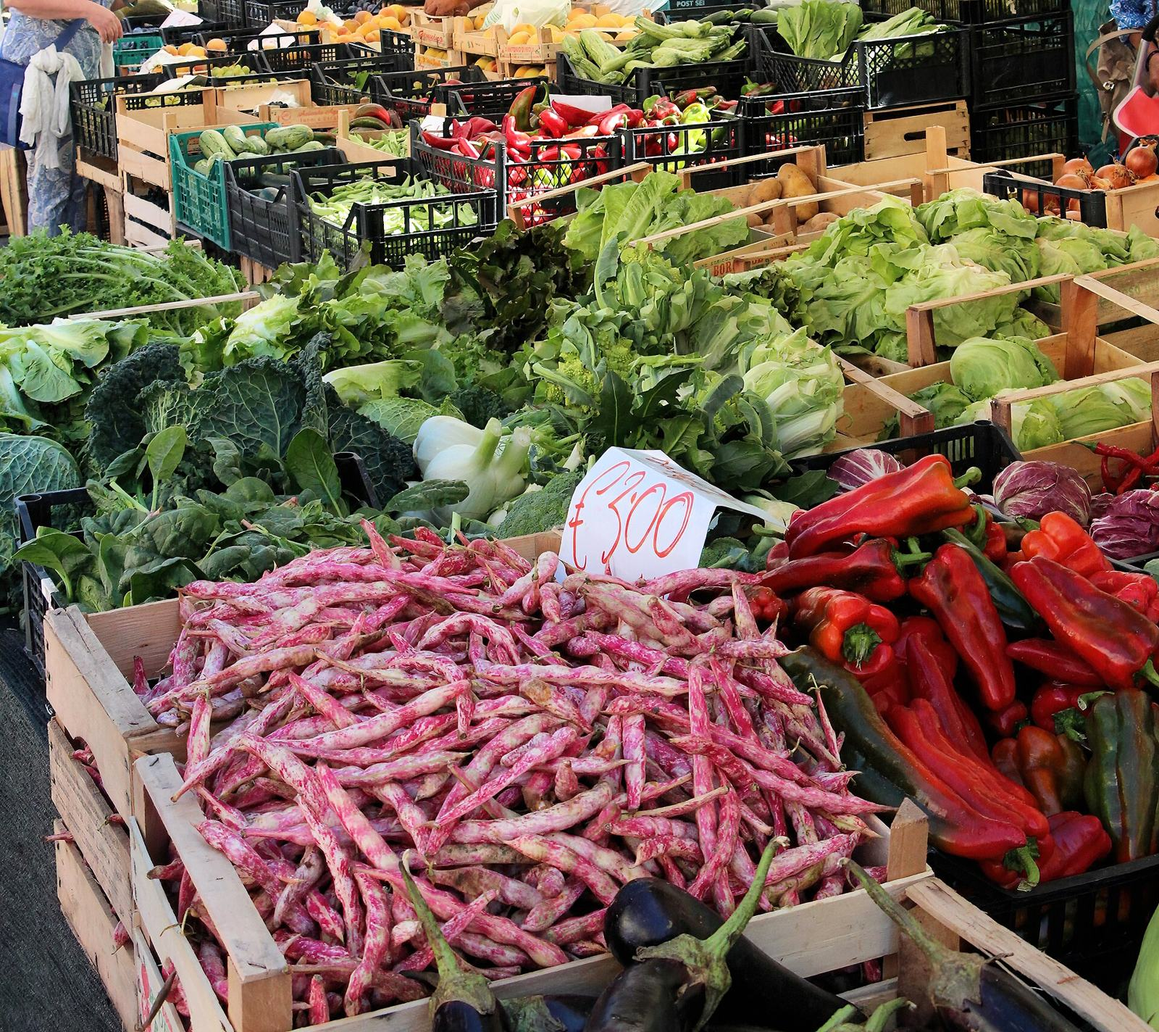
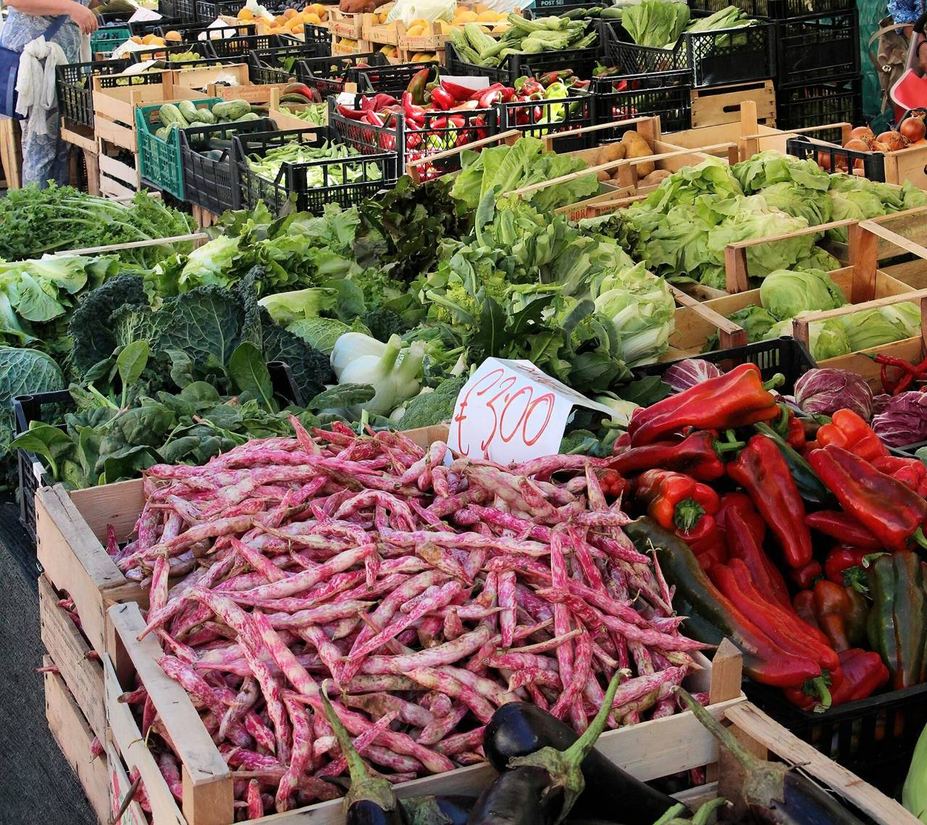
Fichier HTML unique : trois vues et site intégré
tools/build-standalone.mjs assemble prototype et site (photos en data
URI) dans dist/garrym-prototype.html ; npm run check:standalone le
vérifie. Photos provisoires réduites à 1 280 px. Incident 26 (motif
$$ dans une chaîne de remplacement) consigné.

Claude-Session: https://claude.ai/code/session_01MkdFMziEzxAkPfF5LM5gfJ

Changed region(s): [[0.4375, 0.1536, 0.5, 0.2151], [0.5625, 0.0922, 0.625, 0.1229], [0.7188, 0.0615, 0.75, 0.0922]]

diff --git a/prototype/index.html b/prototype/index.html
@@ -1624,13 +1624,15 @@ function toast(msg) { const t = $("#toast"); t.textContent = msg; t.hidden = fal
 /* Le site public est le fichier site/index.html, affiché dans un cadre. Seule la connexion reste dessinée ici. */
 const SITE_URL = /\/prototype\/(index\.html)?$/.test(location.pathname) ? "../site/index.html" : "site/index.html";
 const SITE_ANCHOR = { home: "", about: "#manifeste", offres: "#formules", themes: "#programmes", blog: "#journal", contact: "#cabinets" };
-function siteFrame() { return `<iframe class="siteframe" id="siteframe" src="${SITE_URL}${SITE_ANCHOR[S.sitePage] || ""}" title="Site public Garrym"></iframe>`; }
+/* Version autonome (tools/build-standalone.mjs) : le site est intégré dans window.SITE_HTML et chargé en srcdoc */
+function siteFrame() { const h = SITE_ANCHOR[S.sitePage] || ""; return window.SITE_HTML ? `<iframe class="siteframe" id="siteframe" data-hash="${h}" title="Site public Garrym"></iframe>` : `<iframe class="siteframe" id="siteframe" src="${SITE_URL}${h}" title="Site public Garrym"></iframe>`; }
+function loadFrame() { const f = $("#siteframe"); if (!f || !window.SITE_HTML) return; const h = f.dataset.hash; if (h) f.addEventListener("load", () => f.contentWindow.postMessage({ garrym: "goto", hash: h }, "*"), { once: true }); f.srcdoc = window.SITE_HTML; }
 function fitFrame() { const f = $("#siteframe"), b = $(".protobar"); if (f) f.style.height = (innerHeight - (b ? b.getBoundingClientRect().bottom : 0)) + "px"; }
 addEventListener("resize", fitFrame);
 addEventListener("message", e => { if (e.data && e.data.garrym === "login") go(() => { S.view = "site"; S.sitePage = "login"; }); });
 function render() {
   $("#app").innerHTML = protobar() + (S.view === "site" ? (S.sitePage === "login" ? site() : siteFrame()) : S.view === "patient" ? patient() : admin());
-  fitFrame();
+  fitFrame(); loadFrame();
   document.body.classList.toggle("no-notes", !S.notes);
   revealWords();
 }

diff --git a/site/index.html b/site/index.html
@@ -434,6 +434,8 @@ $$('a[href^="#"]').forEach(a => a.addEventListener("click", e => { const id = a.
 /* ---------- Toast ---------- */
 let tt; function toast(m) { let t = $(".toast"); if (!t) { t = document.createElement("div"); t.className = "toast"; t.setAttribute("role", "status"); document.body.appendChild(t); } t.textContent = m; t.hidden = false; clearTimeout(tt); tt = setTimeout(() => t.hidden = true, 3200); }
 $$("[data-toast]").forEach(a => a.addEventListener("click", e => { e.preventDefault(); toast(a.dataset.toast); }));
+addEventListener("message", e => { if (!e.data || e.data.garrym !== "goto" || !$(e.data.hash)) return;
+  const t = setInterval(() => { if (!document.body.classList.contains("ready")) return; clearInterval(t); lenis ? lenis.scrollTo(e.data.hash, { immediate: true }) : $(e.data.hash).scrollIntoView(); }, 200); });
 $("#espace").addEventListener("click", e => { e.preventDefault(); if (window.parent !== window) window.parent.postMessage({ garrym: "login" }, "*"); else toast("L'espace patiente s'ouvre depuis le prototype (bandeau « Espace patiente »)."); });
 
 /* ---------- Scène WebGL d'ouverture : corbeille de fruits ---------- */

diff --git a/CLAUDE.md b/CLAUDE.md
@@ -62,6 +62,10 @@ npm install                          # une fois (installe Playwright)
 npm run check                        # trois vues (site dans le cadre, connexion, patiente, admin) ; attendu : "mobile scrollWidth 390" puis "NO ERRORS"
 npm run check:site                   # site v4 : WebGL, erreurs JS, 390 px, captures tools/shots/site-*.png ; attendu "NO ERRORS"
 
+# Fichier HTML unique et autonome (trois vues + site intégré, photos en data URI)
+npm run build:standalone             # produit dist/garrym-prototype.html (ignoré par git), à envoyer tel quel
+npm run check:standalone             # même parcours que npm run check, sur ce fichier
+
 # Publier l'aperçu en ligne (page privée claude.ai, lisible sur téléphone)
 node tools/build-artifact.mjs        # produit dist/prototype-garrym.html (ignoré par git)
 # puis republier ce fichier avec l'outil Artifact sur la même URL, en joignant le site (option files) :
@@ -96,4 +100,5 @@ Après chaque livraison visuelle : republier l'aperçu et envoyer des captures (
 - **Analyse de sites de référence** : REA (`npx -y rea-agents@6.7.0 inspect-web-page <cdp> <target>`) pour la preuve, captures Playwright pour le rendu. Ne reprendre que les techniques et compositions, jamais le code, les images, les modèles 3D ni les polices payantes.
 - **Simulation** : toute physique suit le temps réel en sous-pas et protège les divisions par l'intervalle de temps (incidents 23, 24). Le navigateur de test rend la 3D à moins d'une image par seconde : attendre longtemps avant de capturer.
 - **Site dans le cadre du prototype** : chemins relatifs à `site/` ; à la publication, joindre `site/index.html` et `site/img/*` au prototype (voir Commandes).
+- **`String.replace` avec une chaîne de remplacement** : `$$`, `$&`, `$1` y sont des motifs. Pour injecter du code ou du HTML, passer une fonction (`s.replace(x, () => code)`) (incident 26).
 - **Copyright des références** : le dépôt `justinhartman/ui-ux-design-library` contient des livres sous droits. Ne pas les copier ici ; lien seulement.

diff --git a/JOURNAL_ERREURS.md b/JOURNAL_ERREURS.md
@@ -4,6 +4,7 @@ Un incident par entrée, le plus récent en haut. Chaque entrée se termine par 
 
 | # | Date | Symptôme | Cause | Correction | Règle pour ne plus le refaire |
 | --- | --- | --- | --- | --- | --- |
+| 26 | 2026-10-23 | Version autonome : le site restait bloqué sur son écran de chargement | Le site était injecté par `replace("</head>", chaîne)` : dans une chaîne de remplacement, `$$` vaut `$`, donc `$$ = s => …` devenait une seconde déclaration de `$` et le script du site ne s'exécutait pas | Remplacement par une fonction (`replace(x, () => …)`) | Ne jamais injecter du code par une chaîne de remplacement ; vérifier la version assemblée avec le même parcours que la source (`npm run check:standalone`) |
 | 25 | 2026-10-23 | Après connexion, revenir sur « Site public » réaffichait la page de connexion | La page courante du site (`S.sitePage = "login"`) n'était pas remise à zéro à la connexion | `S.sitePage = "home"` dans l'action de connexion ; parcours ajouté à `npm run check` | Toute action qui quitte une vue remet son état de page à une valeur par défaut ; tester l'aller-retour entre vues |
 | 24 | 2026-10-23 | Fruits absents des captures sur ordinateur | Rendu logiciel du navigateur de test à 0,3 image/s ; la physique avançait d'au plus 1/30 s par image, les fruits étaient encore en train de tomber | Pas de temps réel découpé en sous-pas (1/120 s), plafond à 0,1 s ; qualité réduite automatiquement si le rendu est lent | Une simulation suit le temps réel, pas le nombre d'images ; mesurer les images/s du navigateur de test avant de conclure à un bug visuel |
 | 23 | 2026-10-23 | Fruits invisibles (positions NaN) | Première image avec un intervalle de temps nul : vitesse de défilement = 0/0 | Pas de simulation si l'intervalle est inférieur à 0,1 ms | Protéger toute division par l'intervalle de temps ; une scène vide = vérifier d'abord les NaN |

diff --git a/FEATURE_BACKLOG.md b/FEATURE_BACKLOG.md
@@ -24,6 +24,7 @@ Priorités : **P0** indispensable au lancement · **P1** important · **P2** con
 | 2026-10-23 | Palette v5-B « Calanque et citron » | Brief fourni par Romain (`references/brief-couleurs-v5-citron.html`) appliqué au site, puis à l'espace patiente et au back-office ; citron en surligneur sur fond clair |
 | 2026-10-23 | Fruits 3D réalistes | Matières physiques (velours, pores, cire, laque), textures peintes, éclairage d'ambiance, ombres portées ; physique : chute à l'arrivée, flottaison, poussée du pointeur, collisions, élan du défilement ; qualité réduite automatiquement si l'appareil rame |
 | 2026-10-23 | Prototype unifié à trois vues | Bandeau Site public / Espace patiente / Back-office : le site v4 dans la vue publique, « Mon espace » → connexion → espace patiente ; `npm run check` couvre ce parcours |
+| 2026-10-23 | Fichier HTML unique | `dist/garrym-prototype.html` : les trois vues et le site intégré (photos en data URI, environ 3 Mo), construit par `npm run build:standalone` et vérifié par `npm run check:standalone` |
 | 2026-10-23 | Aperçu en ligne du site v4 | Page claude.ai privée distincte du prototype applicatif (`node tools/build-artifact.mjs site`) |
 
 ## En cours

diff --git a/APP_SPEC.md b/APP_SPEC.md
@@ -40,7 +40,7 @@ Donner à chaque patiente de Manon un accompagnement qui continue entre les cons
 ## 5. Écrans
 
 ### Site public
-La v4 ne contient que l'accueil. Dans le prototype (`prototype/index.html`), la vue « Site public » affiche ce site dans un cadre ; son bouton « Mon espace » ouvre la page de connexion de l'espace patiente. Les pages secondaires (Manon, Formules, Thématiques, Journal, Cabinets) restent à refaire dans le style v4 ; en attendant, leurs liens mènent à la section correspondante de l'accueil.
+La v4 ne contient que l'accueil. Dans le prototype (`prototype/index.html`), la vue « Site public » affiche ce site dans un cadre ; son bouton « Mon espace » ouvre la page de connexion de l'espace patiente. Une version en un seul fichier (`dist/garrym-prototype.html`) intègre le site et ses photos. Les pages secondaires (Manon, Formules, Thématiques, Journal, Cabinets) restent à refaire dans le style v4 ; en attendant, leurs liens mènent à la section correspondante de l'accueil.
 
 | Écran | Contenu clé |
 | --- | --- |

diff --git a/site/img/CREDITS.md b/site/img/CREDITS.md
@@ -2,7 +2,7 @@
 
 Photos provisoires du prototype `site/`, issues de Wikimedia Commons sous licence libre. Elles seront remplacées par les photos de Manon avant toute mise en ligne.
 
-Fichiers redimensionnés à 1 600 px et recompressés, sans autre modification. Certaines montrent des personnes identifiables : la licence couvre le droit d'auteur, pas le droit à l'image, d'où l'usage limité au prototype privé.
+Fichiers redimensionnés à 1 280 px et recompressés, sans autre modification. Certaines montrent des personnes identifiables : la licence couvre le droit d'auteur, pas le droit à l'image, d'où l'usage limité au prototype privé.
 
 | Fichier | Œuvre | Auteur | Licence | Source |
 | --- | --- | --- | --- | --- |
